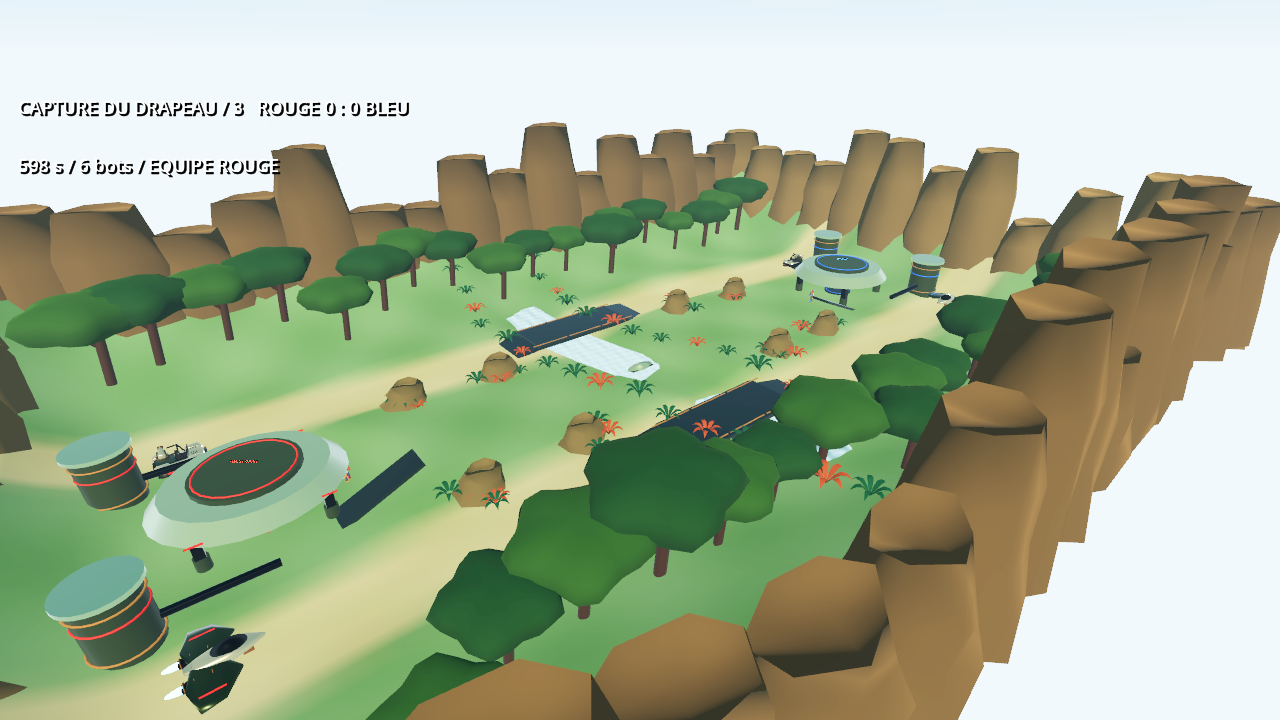
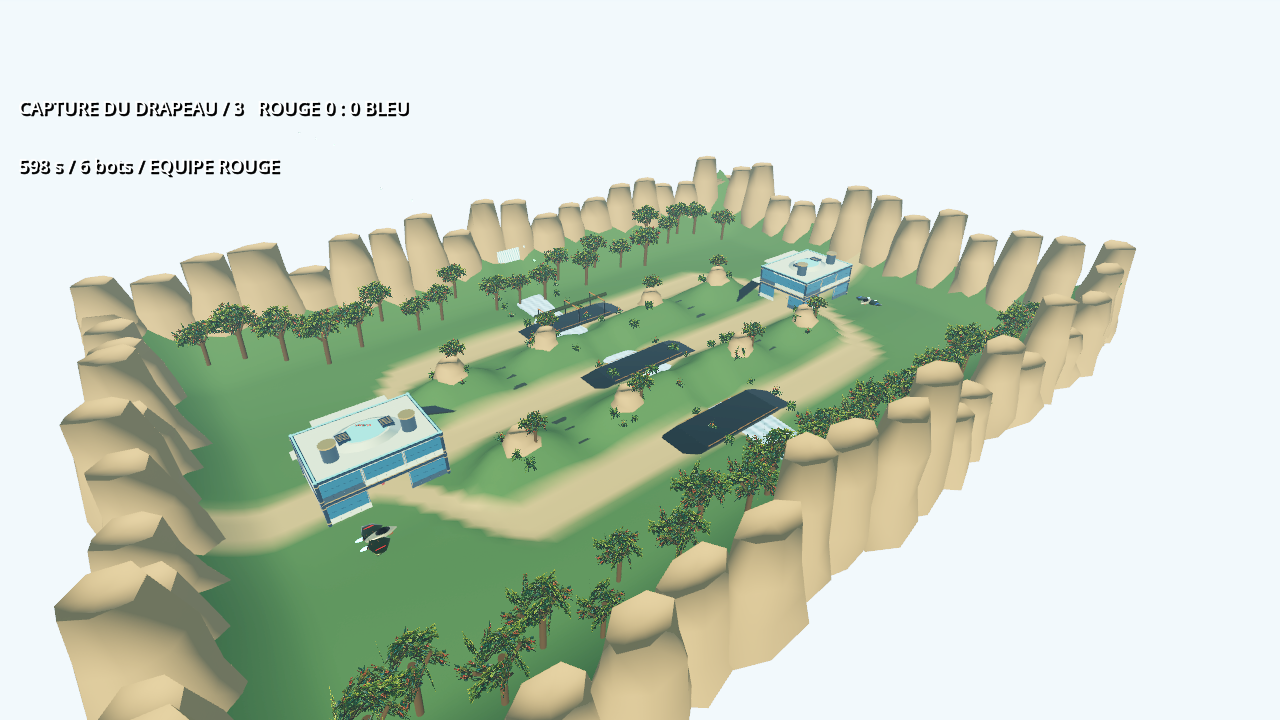
Publish Nebula VR downloads, cross-platform coop guide and update manifest

diff --git a/docs/index.html b/docs/index.html
@@ -12,20 +12,21 @@
 <main>
 <section class="hero" aria-labelledby="title">
   <div class="orbital" aria-hidden="true"></div>
-  <div class="hero-copy"><p class="eyebrow"><span class="status-dot"></span> PROTOTYPE JOUABLE · <span data-version>0.41.1</span></p><h1 id="title">L’espace est grand.<br>Partez <em>ensemble.</em></h1><p class="intro">Incarnez Nebula, un aventurier aux outils un peu démesurés. Docks suspendus, robots hostiles et sauts dans le vide : la prochaine expédition commence ici.</p><a class="primary" href="#telecharger">Choisir ma version <span aria-hidden="true">↓</span></a><div class="hero-specs"><span>Meta Quest 3 / 3S</span><span>Android</span><span>1 à 4 joueurs</span></div></div>
+  <div class="hero-copy"><p class="eyebrow"><span class="status-dot"></span> PROTOTYPE JOUABLE · <span data-version>0.42.0</span></p><h1 id="title">L’espace est grand.<br>Partez <em>ensemble.</em></h1><p class="intro">Incarnez Nebula, un aventurier aux outils un peu démesurés. Docks suspendus, robots hostiles et sauts dans le vide : la prochaine expédition commence ici.</p><a class="primary" href="#telecharger">Choisir ma version <span aria-hidden="true">↓</span></a><div class="hero-specs"><span>Meta Quest 3 / 3S</span><span>Android</span><span>1 à 4 joueurs</span></div></div>
   <figure class="hero-visual"><img src="assets/nebula.png" alt="Nebula dans le jeu, avec son blaster, ses grandes oreilles et son armure crème et verte" width="1280" height="720" fetchpriority="high"><figcaption><span>NEBULA / AURORA</span><span>Capture du prototype</span></figcaption></figure>
 </section>
-<section id="telecharger" class="downloads" aria-labelledby="downloads-title"><div class="section-heading"><div><p class="eyebrow">PRÊT POUR LE DÉPART ?</p><h2 id="downloads-title">Votre porte d’embarquement.</h2></div><span class="version-pill">Version <span data-version>0.41.1</span></span></div>
+<section id="telecharger" class="downloads" aria-labelledby="downloads-title"><div class="section-heading"><div><p class="eyebrow">PRÊT POUR LE DÉPART ?</p><h2 id="downloads-title">Votre porte d’embarquement.</h2></div><span class="version-pill">Version <span data-version>0.42.0</span></span></div>
   <div class="download-grid">
-    <article class="download-card"><div class="card-top"><span class="platform-icon" aria-hidden="true">◉</span><span class="platform-tag">IMMERSION</span></div><h3>Meta Quest</h3><p>Dans la peau de Nebula. Déplacement fluide, mains VR, lancers physiques et coups de crosse.</p><ul><li>Quest 3 et Quest 3S</li><li>APK ARM64 · installation manuelle</li><li>Solo et coop avec les joueurs Android</li></ul><a class="download primary" id="vr-download" href="https://github.com/tommyaudetcontact-wq/NebulaVR/releases/download/v0.41.1/Nebula-VR-Quest-0.41.1.apk">Télécharger l’APK Quest <span aria-hidden="true">↓</span></a><p class="file-meta" id="vr-size">Version 0.41.1</p></article>
-    <article class="download-card"><div class="card-top"><span class="platform-icon phone" aria-hidden="true">▯</span><span class="platform-tag">PARTOUT AVEC VOUS</span></div><h3>Android mobile</h3><p>La même aventure, sans casque. Commandes tactiles et caméra à la troisième personne, avec vue subjective au choix.</p><ul><li>Android 10 ou plus récent · ARM64</li><li>Écran en paysage</li><li>Rejoignez vos amis en VR ou sur mobile</li></ul><a class="download secondary" id="mobile-download" href="https://github.com/tommyaudetcontact-wq/NebulaVR/releases/download/v0.41.1/Nebula-Android-0.41.1.apk">Télécharger l’APK Android <span aria-hidden="true">↓</span></a><p class="file-meta" id="mobile-size">Version 0.41.1</p></article>
+    <article class="download-card"><div class="card-top"><span class="platform-icon" aria-hidden="true">◉</span><span class="platform-tag">IMMERSION</span></div><h3>Meta Quest</h3><p>Dans la peau de Nebula. Déplacement fluide, mains VR, lancers physiques et coups de crosse.</p><ul><li>Quest 3 et Quest 3S</li><li>APK ARM64 · installation manuelle</li><li>Solo et coop avec les joueurs Android</li></ul><a class="download primary" id="vr-download" href="https://github.com/tommyaudetcontact-wq/NebulaVR/releases/download/v0.42.0/Nebula-VR-Quest-0.42.0.apk">Télécharger l’APK Quest <span aria-hidden="true">↓</span></a><p class="file-meta" id="vr-size">Version 0.42.0</p></article>
+    <article class="download-card"><div class="card-top"><span class="platform-icon phone" aria-hidden="true">▯</span><span class="platform-tag">PARTOUT AVEC VOUS</span></div><h3>Android mobile</h3><p>La même aventure, sans casque. Commandes tactiles et caméra à la troisième personne, avec vue subjective au choix.</p><ul><li>Android 10 ou plus récent · ARM64</li><li>Écran en paysage</li><li>Rejoignez vos amis en VR ou sur mobile</li></ul><a class="download secondary" id="mobile-download" href="https://github.com/tommyaudetcontact-wq/NebulaVR/releases/download/v0.42.0/Nebula-Android-0.42.0.apk">Télécharger l’APK Android <span aria-hidden="true">↓</span></a><p class="file-meta" id="mobile-size">Version 0.42.0</p></article>
   </div><p class="download-note">Version de développement : des bugs et des ajustements sont encore à prévoir. Les APK vérifient au lancement si une mise à jour est disponible sur ce dépôt; son installation reste manuelle.</p>
 </section>
 <section id="univers" class="world" aria-labelledby="world-title"><div class="section-heading"><div><p class="eyebrow">UN MONDE AU-DESSUS DU VIDE</p><h2 id="world-title">Deux façons de partir à l’aventure.</h2></div></div><div class="world-grid"><figure><img src="assets/aurora.png" alt="Des accroches lumineuses de grappin entre les plateformes suspendues d’Aurora" width="1280" height="720" loading="lazy"><figcaption>Les passages au grappin d’Aurora · capture du jeu</figcaption></figure><div class="modes"><article><span class="number">01</span><div><h3>Niveau 1 — Aurora</h3><p>Retrouvez le parcours construit à la main : neuf secteurs, des robots à affronter, des plateformes et des enchaînements au grappin.</p></div></article><article><span class="number">∞</span><div><h3>Expédition procédurale</h3><p>Choisissez une expédition courte, standard ou longue. Une graine commune organise les secteurs, les hauteurs, les rencontres et les passages au grappin pour toute l’équipe.</p></div></article></div></div></section>
 <section class="installation" id="demolition" aria-labelledby="demo-title"><p class="eyebrow">NOUVEAU / BANC D’ARMES</p><h2 id="demo-title">Six structures à faire tomber.</h2><p>Un quartier de test inspiré de notre Heliopolis : atelier, hangar, centre de transit, relais et deux grandes tours. Ouvre les façades, coupe les appuis et regarde les sections privées de soutien s’effondrer. Le test se termine à six bâtiments détruits, en solo ou en coop.</p><img src="assets/demolition-rue.png" alt="Capture réelle du quartier de test avec ses deux grandes tours" loading="lazy" style="width:100%;border-radius:18px;margin:24px 0;max-height:560px;object-fit:cover"><p>Choisis « Banc d’armes / démolition » dans le menu. Les façades détaillées se détachent en sections articulées, puis les joints cèdent et les débris rebondissent. Les surfaces restent identiques après rupture et tous les groupes de gravats gardent leurs collisions pour s’empiler. Cette physique complète coûte davantage; les performances en grand effondrement restent à mesurer. Les 72 fps sur Quest restent à mesurer.</p></section>
-<section class="installation" id="arene" aria-labelledby="arena-title"><p class="eyebrow">NOUVEAU / VALLEE SYLVESTRE</p><h2 id="arena-title">Rouge contre bleu.</h2><p>Match par équipes ou capture du drapeau. Jusqu’à quatre joueurs Quest et Android, avec zéro à six bots Nebula. Deux bases, une vallée boisée et futuriste, une rivière et ses ponts, des arbres à larges couronnes, un rover et un appareil volant par équipe.</p><img src="assets/arena-vallee.png" alt="Capture réelle de l’arène : deux bases dans une vallée rocheuse boisée" loading="lazy" style="width:100%;border-radius:18px;margin:24px 0;max-height:560px;object-fit:cover"><p>Choisissez Arène / équipes ou Arène / drapeaux, puis le nombre de bots avant de lancer. Le rover accueille un conducteur et un tireur de tourelle, humains ou bots. X gauche en VR / EMBARQUER sur mobile : entrer ou sortir. Hors véhicule, X / ALLIE appelle un compagnon. En vol : saut pour monter et crosse pour descendre. Version 0.41.1 requise sur tous les appareils.</p></section>
-<section id="coop" class="coop" aria-labelledby="coop-title"><div><p class="eyebrow">UN HÔTE. JUSQU’À TROIS AMIS.</p><h2 id="coop-title">Casque ou téléphone,<br>la même équipe.</h2><p>Les positions, le corps, les mains et l’arme de chaque Nebula sont partagés, ainsi que le lancer du chargeur du shockwave. Les joueurs mobiles peuvent voir les gestes des joueurs VR; l’hôte conserve l’état des ennemis et les dégâts.</p></div><ol><li><span>1</span><div><h3>Retrouvez les joueurs</h3><p>La liste JOUEURS se rafraîchit automatiquement. Invitez une personne présente, ou créez une partie publique visible dans PARTIES.</p></div></li><li><span>2</span><div><h3>Rejoignez l’équipe</h3><p>Acceptez une invitation ou rejoignez une partie publique, même déjà commencée. Jusqu’à quatre joueurs Quest et Android, tous en version 0.41.1.</p></div></li><li><span>3</span><div><h3>Gardez votre groupe</h3><p>L’hôte lance la partie quand le groupe est prêt. Pendant le jeu : Y gauche en VR ou bouton pause sur mobile pour inviter, régler musique et bruitages, ou revenir au salon avec le groupe.</p></div></li></ol><aside>La connexion Internet directe dépend du routeur. La découverte est automatique; UPnP tente de rendre le salon joignable. Un salon non joignable est signalé dans la liste. Les réseaux derrière un CGNAT peuvent bloquer la connexion : cette version n’intègre pas de relais. La coop a été testée sur quatre instances locales; la validation entre appareils et réseaux distincts reste à faire.</aside></section>
-<section class="installation" aria-labelledby="install-title"><p class="eyebrow">BIEN DÉMARRER</p><h2 id="install-title">Installer le prototype.</h2><div class="install-grid"><details><summary>Sur Meta Quest</summary><p>Téléchargez l’APK Quest sur un ordinateur. Avec le mode développeur activé sur votre casque, installez-le par SideQuest ou avec <code>adb install -r Nebula-VR-Quest-0.41.1.apk</code>. Lancez ensuite « Nebula VR » dans les sources inconnues. La mise à jour conserve l’identifiant de l’ancien prototype Quest.</p></details><details><summary>Sur Android</summary><p>Ouvrez l’APK Android sur votre téléphone et autorisez son installation depuis votre navigateur si Android le demande. Lancez « Nebula VR Mobile » en paysage. Le joystick gauche déplace Nebula; glissez au centre droit pour regarder. Les boutons servent à tirer, sauter, frapper, changer d’arme, recharger, aspirer et utiliser le grappin.</p></details><details><summary>Mises à jour intégrées</summary><p>À partir de la 0.38, l’appli vérifie les nouvelles versions puis télécharge et contrôle l’APK automatiquement au menu, hors partie et groupe. Android ou Quest peuvent demander d’autoriser Nebula à installer ses mises à jour et de confirmer l’installation. Aucun navigateur n’est nécessaire. Une partie en cours continue normalement. Installez la 0.40 manuellement une dernière fois pour activer ce système.</p></details></div></section>
+<section class="installation" id="arene" aria-labelledby="arena-title"><p class="eyebrow">NOUVEAU / VALLEE SYLVESTRE</p><h2 id="arena-title">Rouge contre bleu.</h2><p>Match par équipes ou capture du drapeau. Jusqu’à quatre joueurs Quest et Android, avec zéro à six bots Nebula. Une arène élargie à trois voies, des passages forestiers, trois ponts et deux bases plus grandes et destructibles. Un rover et un appareil volant par équipe, avec un atlas de feuillages détaillés et animés.</p><img src="assets/arena-vallee.png" alt="Capture réelle de l’arène : deux bases dans une vallée rocheuse boisée" loading="lazy" style="width:100%;border-radius:18px;margin:24px 0;max-height:560px;object-fit:cover"><p>Choisissez Arène / équipes ou Arène / drapeaux, puis le nombre de bots avant de lancer. Le rover accueille un conducteur et un tireur de tourelle, humains ou bots. X gauche en VR / EMBARQUER sur mobile : entrer ou sortir. Hors véhicule, X / ALLIE appelle un compagnon. En vol : saut pour monter et crosse pour descendre. Version 0.42.0 requise sur tous les appareils.</p></section>
+<section class="installation" id="mini-nuke" aria-labelledby="nuke-title"><p class="eyebrow">NOUVEAU / SIXIÈME ARME</p><h2 id="nuke-title">Mini Nuke Laucher.</h2><p>Un noyau à charger, un projectile lourd et une détonation rose et mauve qui projette les robots et les gravats. Maintenez le tir 0,6 seconde, puis laissez le lanceur refroidir trois secondes. Choisissez-le avec B droit en VR ou la sixième icône sur Android.</p><img src="assets/nuke-modele.png" alt="Modèle réel du Mini Nuke dans le moteur du jeu" loading="lazy" style="width:100%;border-radius:18px;margin:24px 0;max-height:520px;object-fit:cover"><p>Le shockwave, les grenades et les chargeurs explosifs reçoivent aussi une onde de pression adaptée à leur direction et à leur rayon. Le grand panache et son éclairage restent réservés au Mini Nuke.</p></section>
+<section id="coop" class="coop" aria-labelledby="coop-title"><div><p class="eyebrow">UN HÔTE. JUSQU’À TROIS AMIS.</p><h2 id="coop-title">Casque ou téléphone,<br>la même équipe.</h2><p>Les positions, le corps, les mains et l’arme de chaque Nebula sont partagés, ainsi que le lancer du chargeur du shockwave. Les joueurs mobiles peuvent voir les gestes des joueurs VR; l’hôte conserve l’état des ennemis et les dégâts.</p></div><ol><li><span>1</span><div><h3>Retrouvez les joueurs</h3><p>La liste JOUEURS se rafraîchit automatiquement. Invitez une personne présente, ou créez une partie publique visible dans PARTIES.</p></div></li><li><span>2</span><div><h3>Rejoignez l’équipe</h3><p>Acceptez une invitation ou rejoignez une partie publique, même déjà commencée. Jusqu’à quatre joueurs Quest et Android, tous en version 0.42.0.</p></div></li><li><span>3</span><div><h3>Gardez votre groupe</h3><p>L’hôte lance la partie quand le groupe est prêt. Pendant le jeu : Y gauche en VR ou bouton pause sur mobile pour inviter, régler musique et bruitages, ou revenir au salon avec le groupe.</p></div></li></ol><aside>La connexion Internet directe dépend du routeur. La découverte est automatique; UPnP tente de rendre le salon joignable. Un salon non joignable est signalé dans la liste. Les réseaux derrière un CGNAT peuvent bloquer la connexion : cette version n’intègre pas de relais. La coop a été testée sur quatre instances locales; la validation entre appareils et réseaux distincts reste à faire.</aside></section>
+<section class="installation" aria-labelledby="install-title"><p class="eyebrow">BIEN DÉMARRER</p><h2 id="install-title">Installer le prototype.</h2><div class="install-grid"><details><summary>Sur Meta Quest</summary><p>Téléchargez l’APK Quest sur un ordinateur. Avec le mode développeur activé sur votre casque, installez-le par SideQuest ou avec <code>adb install -r Nebula-VR-Quest-0.42.0.apk</code>. Lancez ensuite « Nebula VR » dans les sources inconnues. La mise à jour conserve l’identifiant de l’ancien prototype Quest.</p></details><details><summary>Sur Android</summary><p>Ouvrez l’APK Android sur votre téléphone et autorisez son installation depuis votre navigateur si Android le demande. Lancez « Nebula VR Mobile » en paysage. Le joystick gauche déplace Nebula; glissez au centre droit pour regarder. Les boutons servent à tirer, sauter, frapper, changer d’arme, recharger, aspirer et utiliser le grappin.</p></details><details><summary>Mises à jour intégrées</summary><p>À partir de la 0.38, l’appli vérifie les nouvelles versions puis télécharge et contrôle l’APK automatiquement au menu, hors partie et groupe. Android ou Quest peuvent demander d’autoriser Nebula à installer ses mises à jour et de confirmer l’installation. Aucun navigateur n’est nécessaire. Une partie en cours continue normalement. Les versions 0.38 et suivantes disposent déjà de cette vérification.</p></details></div></section>
 </main>
 <footer><a class="brand" href="#"><span class="mark">N</span> NEBULA<span class="vr">VR</span></a><span>Une aventure en construction.</span><a href="https://github.com/tommyaudetcontact-wq/NebulaVR/releases">Versions & notes ↗</a></footer>
 <script src="app.js"></script>

diff --git a/README.md b/README.md
@@ -285,3 +285,21 @@ Nebula VR 0.41.1 — Gravats solides et surfaces conservées
 - Protocole 39 : installer 0.41.1 sur tous les appareils pour la coop.
 
 Validation : empilement réel de trois corps, réveil par impulsion, absence de retrait de collision sous faible budget, paramètres de surfaces, géométrie ronde, effondrement des six bâtiments et réseau avec arrivée tardive. Plus de physique augmente le coût : les 72 fps soutenus sur Quest restent à mesurer, sans promesse de maintien lors de l'effondrement simultané des six cibles.
+
+
+### 0.42.0
+
+Nebula VR 0.42.0 — Mini Nuke et arène à trois voies
+
+- Sixième arme : Mini Nuke Laucher. Modèle validé dans la démo, exporté puis regroupé en dix groupes de rendu Godot. B droit / Tab pour parcourir les armes en VR/PC; sixième icône radioactive sur Android. Maintenir le tir 0,6 s pour charger; refroidissement de 3 s.
+- Projectile et détonation calculés par l'hôte. Explosion rose/mauve, éclairage coloré transitoire, onde de pression, panache volumétrique 3D et étincelles. Dégâts et projection sur robots, joueurs d'arène, véhicules et structures destructibles. Les décors non destructibles des niveaux aventure gardent leur comportement existant.
+- Arène élargie : terrain d'environ 180 × 128 m, bases espacées de 120 m, trois voies reliées par des traversées distinctes. Route centrale, passage forestier couvert au nord et pont plus large au sud pour les véhicules, avec changements de voie latéraux.
+- Deux bases de 20 × 15 m sur deux niveaux, appuis et façades destructibles. Les dégâts, sections détachées, gravats et état à l'arrivée tardive sont partagés. Les gravats gardent leurs collisions et leur apparence; les répliques côté invité restent solides pour les déplacements.
+- Atlas original de feuillages découpés, branches feuillues, fougères et plantes fleuries, animation légère du vent, détail de surface sur terrain, pierre et métal.
+- Navigation des bots répartie entre les routes, coureurs du drapeau et pilotes; franchissement des petites bordures pour les rovers. Conducteur et tourelle restent accessibles aux humains et aux bots.
+- Onde de pression réfractive adaptée aux autres armes : front directionnel de 12 m pour le shockwave; onde de grenade et version plus courte et compacte pour le chargeur explosif. Le rayon correct est transmis en coop. Aucun nouveau gros panache ni éclairage ajouté par ces ondes.
+- Protocole 40 : installer 0.42.0 sur tous les appareils pour jouer ensemble.
+
+Validation : charge et cooldown, requêtes invalides, robot aventure en ragdoll, destruction, voies traversables, base stable puis effondrement, traversée réelle du pont en rover, bot prenant et rapportant un drapeau, quatre instances natives dont arrivée tardive, conduite/tourelle réseau et régressions des contrôles/pause/volumes. Rendus natifs inspectés, y compris le volume vu de près.
+
+Sur Quest : résolution fixe conservée, budget du panache limité à un volume proche et deux lumières transitoires, échantillonnage réduit du shader volumétrique. Les 72 fps soutenus sur casque porté restent à mesurer; plus de physique lors des grosses destructions reste coûteux. Internet P2P dépend du routeur, sans relais CGNAT.
